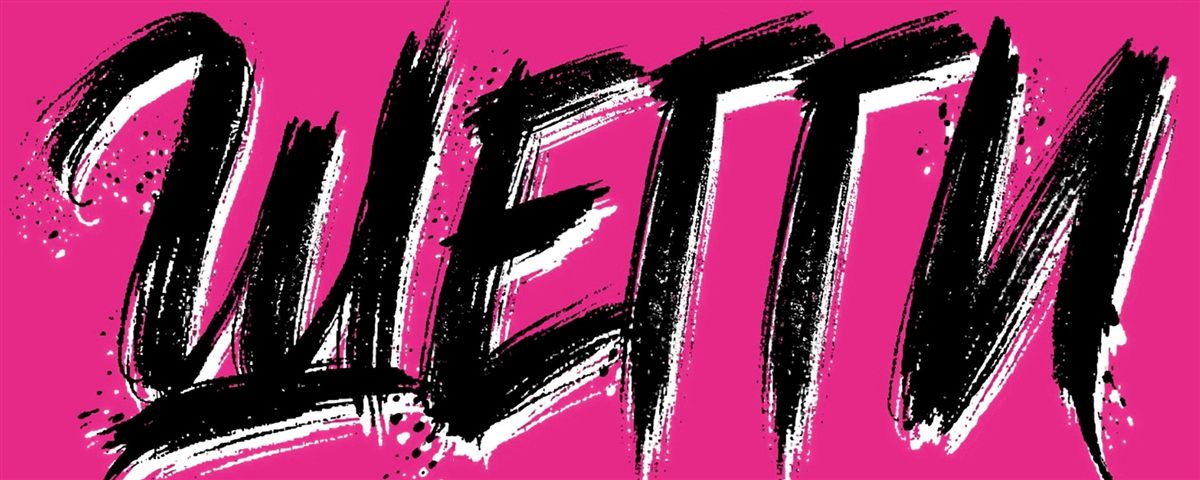
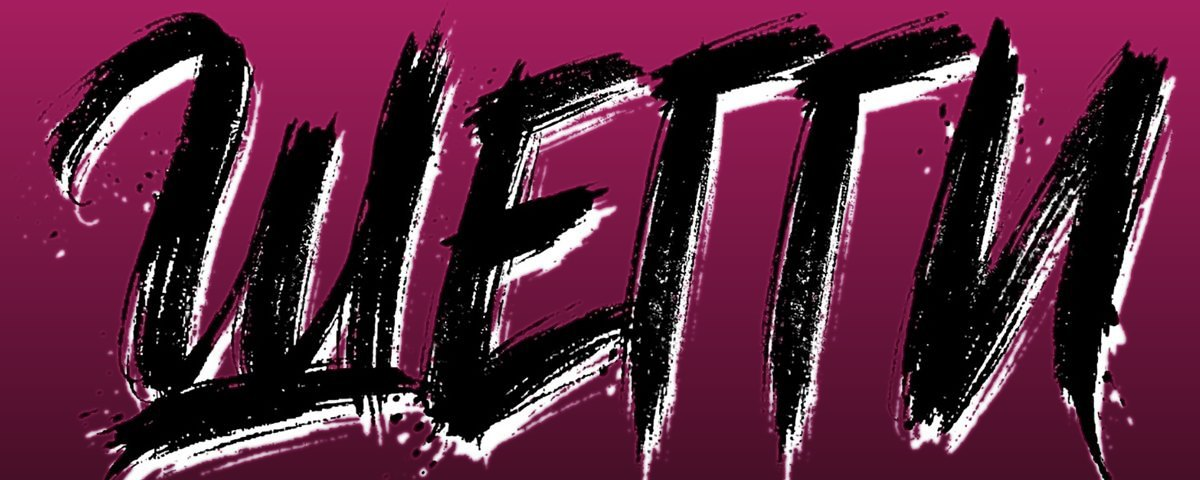
Градиентная обложка в шапке и обновлённый прайс

diff --git a/index.html b/index.html
@@ -145,9 +145,9 @@
           <li class="price-row"><span class="price-row__name">Однотонное, короткие волосы</span><span class="price-row__leader"></span><span class="price-row__value">3 000 ₽</span></li>
           <li class="price-row"><span class="price-row__name">Однотонное, средняя длина</span><span class="price-row__leader"></span><span class="price-row__value">3 500 ₽</span></li>
           <li class="price-row"><span class="price-row__name">Однотонное, удлинённые</span><span class="price-row__leader"></span><span class="price-row__value">4 500 ₽</span></li>
-          <li class="price-row"><span class="price-row__name">Мелирование, короткие</span><span class="price-row__leader"></span><span class="price-row__value">3 500 ₽</span></li>
-          <li class="price-row"><span class="price-row__name">Мелирование, средняя длина</span><span class="price-row__leader"></span><span class="price-row__value">4 500 ₽</span></li>
-          <li class="price-row"><span class="price-row__name">Мелирование, удлинённые</span><span class="price-row__leader"></span><span class="price-row__value">5 500 ₽</span></li>
+          <li class="price-row"><span class="price-row__name">Мелирование, короткие</span><span class="price-row__leader"></span><span class="price-row__value">от 4 500 ₽</span></li>
+          <li class="price-row"><span class="price-row__name">Мелирование, средняя длина</span><span class="price-row__leader"></span><span class="price-row__value">от 5 500 ₽</span></li>
+          <li class="price-row"><span class="price-row__name">Мелирование, удлинённые</span><span class="price-row__leader"></span><span class="price-row__value">от 6 500 ₽</span></li>
         </ul>
       </article>
 
@@ -158,21 +158,20 @@
           <li class="price-row"><span class="price-row__name">Тонирование, короткие</span><span class="price-row__leader"></span><span class="price-row__value">3 000 ₽</span></li>
           <li class="price-row"><span class="price-row__name">Тонирование, средняя длина</span><span class="price-row__leader"></span><span class="price-row__value">3 500 ₽</span></li>
           <li class="price-row"><span class="price-row__name">Тонирование, длинные</span><span class="price-row__leader"></span><span class="price-row__value">4 500 ₽</span></li>
-          <li class="price-row"><span class="price-row__name">Биозавивка, короткие</span><span class="price-row__leader"></span><span class="price-row__value">2 800 ₽</span></li>
-          <li class="price-row"><span class="price-row__name">Биозавивка, средняя длина</span><span class="price-row__leader"></span><span class="price-row__value">3 000 ₽</span></li>
-          <li class="price-row"><span class="price-row__name">Биозавивка, удлинённые</span><span class="price-row__leader"></span><span class="price-row__value">4 000 ₽</span></li>
+          <li class="price-row"><span class="price-row__name">Биозавивка, короткие</span><span class="price-row__leader"></span><span class="price-row__value">от 3 000 ₽</span></li>
+          <li class="price-row"><span class="price-row__name">Биозавивка, средняя длина</span><span class="price-row__leader"></span><span class="price-row__value">от 4 000 ₽</span></li>
+          <li class="price-row"><span class="price-row__name">Биозавивка, удлинённые</span><span class="price-row__leader"></span><span class="price-row__value">от 5 000 ₽</span></li>
         </ul>
       </article>
 
       <article class="price-card">
-        <h3 class="price-card__title">Стрижки и укладка</h3>
+        <h3 class="price-card__title">Стрижки</h3>
         <ul class="price-list">
           <li class="price-row"><span class="price-row__name">Стрижка женская, короткая</span><span class="price-row__leader"></span><span class="price-row__value">800 ₽</span></li>
           <li class="price-row"><span class="price-row__name">Стрижка женская, средняя длина</span><span class="price-row__leader"></span><span class="price-row__value">1 000 ₽</span></li>
           <li class="price-row"><span class="price-row__name">Стрижка женская, длинные</span><span class="price-row__leader"></span><span class="price-row__value">1 200 ₽</span></li>
-          <li class="price-row"><span class="price-row__name">Стрижка мужская</span><span class="price-row__leader"></span><span class="price-row__value">700 ₽</span></li>
-          <li class="price-row"><span class="price-row__name">Макияж</span><span class="price-row__leader"></span><span class="price-row__value">2 500 ₽</span></li>
-          <li class="price-row"><span class="price-row__name">Причёска</span><span class="price-row__leader"></span><span class="price-row__value">2 500 ₽</span></li>
+          <li class="price-row"><span class="price-row__name">Стрижка мужская</span><span class="price-row__leader"></span><span class="price-row__value">700–1 200 ₽</span></li>
+          <li class="price-row"><span class="price-row__name">Оформление бороды</span><span class="price-row__leader"></span><span class="price-row__value">700 ₽</span></li>
         </ul>
       </article>
 

diff --git a/make_qr_card.py b/make_qr_card.py
@@ -1,0 +1,289 @@
+"""Печатные карточки-наклейки с QR-кодом визитки салона «Шегги».
+
+Запуск: python make_qr_card.py
+
+Результат:
+  qr-shaggi-card.png       — обложка перекрашена в градиентные полутона
+  qr-shaggi-card-plain.png — без фото: «ШЕГГИ» типографикой на общем градиенте
+
+Размер 1240x1748 — A6 при 300 dpi.
+"""
+from PIL import Image, ImageChops, ImageDraw, ImageFont, ImageFilter
+import qrcode
+
+URL = "https://painhahub.github.io/shaggi/"
+OUT_COVER = "qr-shaggi-card.png"
+OUT_PLAIN = "qr-shaggi-card-plain.png"
+
+W, H = 1240, 1748
+
+BG = (20, 10, 16)
+SURFACE = (36, 16, 27)
+EDGE = (56, 32, 46)
+ACCENT = (230, 41, 135)
+WINE = (156, 32, 93)
+MUTED = (183, 152, 168)
+INK = (247, 235, 241)
+
+# Полутона для фона обложки: сверху насыщенный малиновый, книзу глухой бордовый.
+COVER_TOP = (166, 30, 95)
+COVER_BOTTOM = (72, 15, 40)
+
+# Палитра типографской шапки второго варианта
+PLAIN_TOP = (62, 15, 36)
+
+FONTS = "C:/Windows/Fonts/"
+
+
+def load_font(name, size):
+    return ImageFont.truetype(FONTS + name, size)
+
+
+f_label = load_font("segoeuib.ttf", 26)
+f_addr = load_font("segoeui.ttf", 26)
+f_hint = load_font("segoeuib.ttf", 34)
+f_sub = load_font("segoeui.ttf", 24)
+f_phone = load_font("segoeuib.ttf", 38)
+f_tiny = load_font("segoeui.ttf", 21)
+f_brand = load_font("georgiab.ttf", 152)
+
+
+def rounded_mask(size, radius):
+    mask = Image.new("L", size, 0)
+    ImageDraw.Draw(mask).rounded_rectangle(
+        [0, 0, size[0] - 1, size[1] - 1], radius=radius, fill=255
+    )
+    return mask
+
+
+def paste_rounded(base, img, xy, radius):
+    base.paste(img, xy, rounded_mask(img.size, radius))
+
+
+def vertical_gradient(size, top, bottom):
+    """Плавный вертикальный градиент: одна строка растягивается на всю высоту."""
+    width, height = size
+    strip = Image.new("RGB", (1, height))
+    px = strip.load()
+
+    for y in range(height):
+        t = y / max(height - 1, 1)
+        px[0, y] = tuple(
+            int(top[i] + (bottom[i] - top[i]) * t) for i in range(3)
+        )
+
+    return strip.resize((width, height), Image.BILINEAR)
+
+
+def recolor_cover(size):
+    """Заменяет розовый фон обложки на градиент полутонов.
+
+    Меняется только фон — насыщенный розовый по цвету. Белые мазки надписи
+    и чёрная графика остаются исходными, поэтому «ШЕГГИ» сохраняет свой цвет
+    и не превращается в цветной силуэт.
+    """
+    img = Image.open("assets/cover-source.jpg").convert("RGB").resize(size, Image.LANCZOS)
+    _, sat, val = img.convert("HSV").split()
+
+    # Маска фона: розовый любой насыщенности выше слабого оттенка — так в градиент
+    # уходят и полупрозрачные ореолы вокруг мазков. Белое (низкая насыщенность)
+    # и чёрное (низкая яркость) в маску не попадают.
+    mask = ImageChops.multiply(
+        sat.point(lambda x: 255 if x > 85 else 0),
+        val.point(lambda x: 255 if x > 95 else 0),
+    )
+    mask = mask.filter(ImageFilter.GaussianBlur(1.6))
+
+    grad = vertical_gradient(size, COVER_TOP, COVER_BOTTOM)
+    return Image.composite(grad, img, mask)
+
+
+def tear_mask(size, top_fade=28, bottom_share=0.8):
+    """Маска растворения обложки в фоне карточки."""
+    width, height = size
+    mask = Image.new("L", (width, height), 255)
+    painter = ImageDraw.Draw(mask)
+
+    for y in range(top_fade):
+        painter.line(
+            [(0, y), (width, y)],
+            fill=int(255 * (y / top_fade) ** 1.2),
+        )
+
+    bottom_start = int(height * bottom_share)
+    for y in range(bottom_start, height):
+        progress = (y - bottom_start) / (height - bottom_start)
+        painter.line(
+            [(0, y), (width, y)],
+            fill=int(255 * (1 - progress) ** 1.4),
+        )
+
+    return mask.filter(ImageFilter.GaussianBlur(10))
+
+
+def draw_qr(canvas, draw, tile_y, tile=720):
+    """Плитка со стеклянной тенью, QR и логотипом в центре."""
+    tile_x = (W - tile) // 2
+
+    shadow = Image.new("L", (W, H), 0)
+    ImageDraw.Draw(shadow).rounded_rectangle(
+        [tile_x - 6, tile_y + 10, tile_x + tile + 6, tile_y + tile + 18],
+        radius=46,
+        fill=135,
+    )
+    shadow = shadow.filter(ImageFilter.GaussianBlur(32))
+    canvas.paste(Image.new("RGB", (W, H), (0, 0, 0)), (0, 0), shadow)
+
+    draw.rounded_rectangle(
+        [tile_x, tile_y, tile_x + tile, tile_y + tile],
+        radius=40,
+        fill=SURFACE,
+        outline=EDGE,
+        width=2,
+    )
+
+    qr = qrcode.QRCode(error_correction=qrcode.constants.ERROR_CORRECT_H, border=4)
+    qr.add_data(URL)
+    qr.make(fit=True)
+    qr.box_size = max(6, 600 // (qr.modules_count + 8))
+    qr_img = qr.make_image(
+        fill_color=(20, 10, 16), back_color=(255, 255, 255)
+    ).convert("RGB")
+
+    plate = 640
+    plate_x = tile_x + (tile - plate) // 2
+    plate_y = tile_y + (tile - plate) // 2
+    paste_rounded(canvas, Image.new("RGB", (plate, plate), (255, 255, 255)),
+                  (plate_x, plate_y), 26)
+
+    canvas.paste(
+        qr_img,
+        (
+            plate_x + (plate - qr_img.width) // 2,
+            plate_y + (plate - qr_img.height) // 2,
+        ),
+    )
+
+    # Логотип в центре: 120 px при H-коррекции (30%) сканирование сохраняется
+    center_x = plate_x + plate // 2
+    center_y = plate_y + plate // 2
+    logoS = 120
+    ring = logoS + 18
+
+    paste_rounded(
+        canvas,
+        Image.new("RGB", (ring, ring), (255, 255, 255)),
+        (center_x - ring // 2, center_y - ring // 2),
+        ring // 2,
+    )
+    paste_rounded(
+        canvas,
+        Image.open("assets/logo.jpg").convert("RGB").resize(
+            (logoS, logoS), Image.LANCZOS
+        ),
+        (center_x - logoS // 2, center_y - logoS // 2),
+        logoS // 2,
+    )
+
+
+def draw_contacts(canvas_draw, start_y):
+    """Призыв, телефон и строка мессенджеров."""
+    y = start_y
+    centered(canvas_draw, "Наведите камеру телефона", y, f_hint, INK)
+    y += 44
+    centered(canvas_draw, "меню услуг и запись онлайн", y, f_sub, MUTED)
+    y += 76
+    centered(canvas_draw, "+7 930 246-36-60", y, f_phone, ACCENT)
+    y += 50
+    tracked(canvas_draw, "АВИТО · ВКОНТАКТЕ · MAX", y, f_tiny, MUTED, 3)
+
+
+def centered(canvas_draw, text, y, font, fill):
+    canvas_draw.text((W // 2, y), text, font=font, fill=fill, anchor="mm")
+
+
+def tracked(canvas_draw, text, y, font, fill, spacing):
+    widths = [canvas_draw.textlength(ch, font=font) for ch in text]
+    total = sum(widths) + spacing * (len(text) - 1)
+    x = W / 2 - total / 2
+
+    for ch, width in zip(text, widths):
+        canvas_draw.text((x, y), ch, font=font, fill=fill, anchor="lm")
+        x += width + spacing
+
+
+def new_canvas():
+    """Фон карточки: общий градиент плюс мягкое винное свечение."""
+    canvas = Image.new("RGB", (W, H), BG)
+
+    glow = Image.new("L", (W, H), 0)
+    ImageDraw.Draw(glow).ellipse([-300, 120, W + 300, 980], fill=58)
+    glow = glow.filter(ImageFilter.GaussianBlur(200))
+    canvas.paste(Image.new("RGB", (W, H), WINE), (0, 0), glow)
+
+    return canvas
+
+
+def build_cover_card():
+    """Вариант 1: обложка перекрашена в градиентные полутона."""
+    canvas = new_canvas()
+    draw = ImageDraw.Draw(canvas)
+
+    cover_size = (W, round(W * 480 / 1200))
+    cover = recolor_cover(cover_size)
+    canvas.paste(cover, (0, 0), tear_mask(cover_size))
+
+    y = cover_size[1] + 66
+    tracked(draw, "САЛОН КРАСОТЫ", y, f_label, ACCENT, 7)
+    y += 46
+    centered(draw, "Нижний Новгород · ул. Страж Революции, 2", y, f_addr, MUTED)
+
+    tile_y = y + 84
+    draw_qr(canvas, draw, tile_y)
+    draw_contacts(draw, tile_y + 720 + 64)
+
+    return canvas
+
+
+def build_plain_card():
+    """Вариант 2: без фото — «ШЕГГИ» типографикой на общем градиенте."""
+    canvas = new_canvas()
+
+    # Шапка: тот же общий градиент, без отдельной плитки и без фото
+    head_h = 520
+    head = vertical_gradient((W, head_h), PLAIN_TOP, BG)
+    canvas.paste(head, (0, 0), tear_mask((W, head_h), top_fade=0, bottom_share=0.62))
+
+    draw = ImageDraw.Draw(canvas)
+
+    centered(draw, "ШЕГГИ", 236, f_brand, INK)
+    tracked(draw, "САЛОН КРАСОТЫ", 344, f_label, ACCENT, 7)
+
+    y = head_h + 70
+    centered(draw, "Нижний Новгород · ул. Страж Революции, 2", y, f_addr, MUTED)
+
+    tile_y = y + 84
+    draw_qr(canvas, draw, tile_y)
+    draw_contacts(draw, tile_y + 720 + 64)
+
+    return canvas
+
+
+def save(canvas, path):
+    try:
+        canvas.save(path, "PNG")
+        print("saved", path, canvas.size)
+    except OSError:
+        # Файл может быть открыт в просмотрщике — пишем рядом
+        fallback = path.replace(".png", "-v2.png")
+        canvas.save(fallback, "PNG")
+        print("saved", fallback, canvas.size, "(основной файл занят)")
+
+
+save(build_cover_card(), OUT_COVER)
+save(build_plain_card(), OUT_PLAIN)
+
+# Обложка для шапки сайта — тот же перекрас и тот же градиент, что на карточке
+site_cover = recolor_cover((1200, 480))
+site_cover.save("assets/cover.jpg", "JPEG", quality=86, optimize=True)
+print("saved assets/cover.jpg", site_cover.size)
